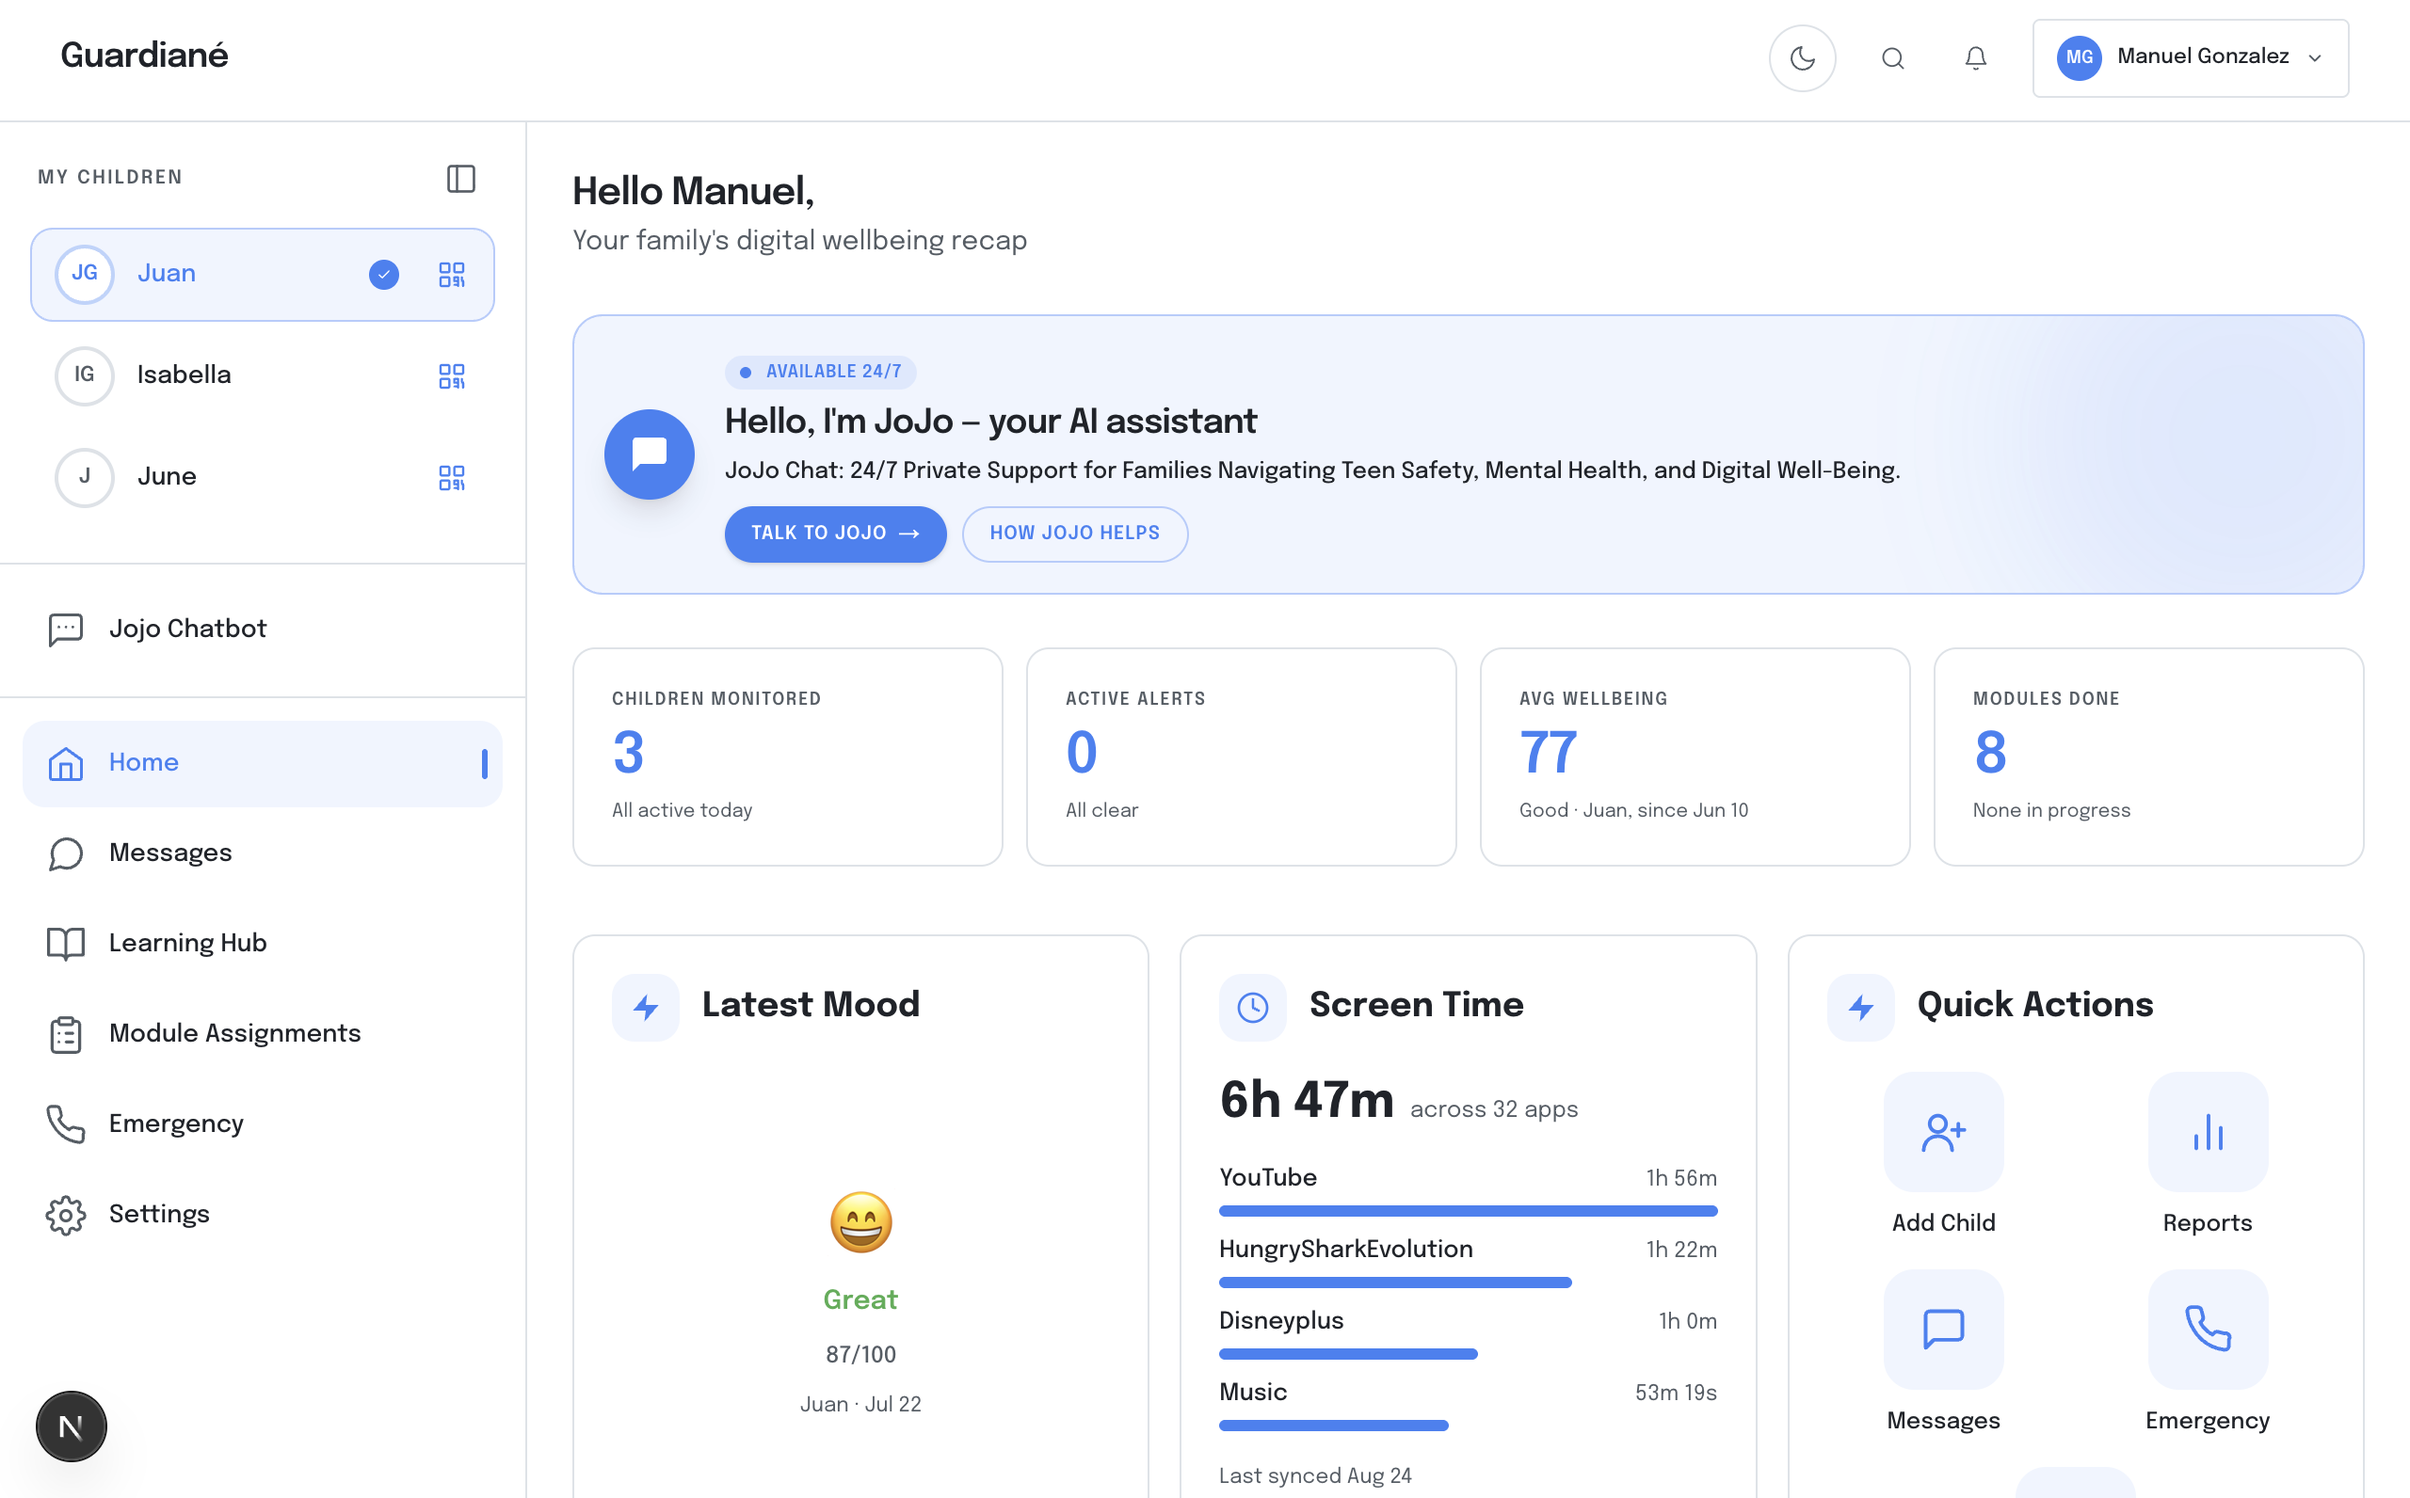
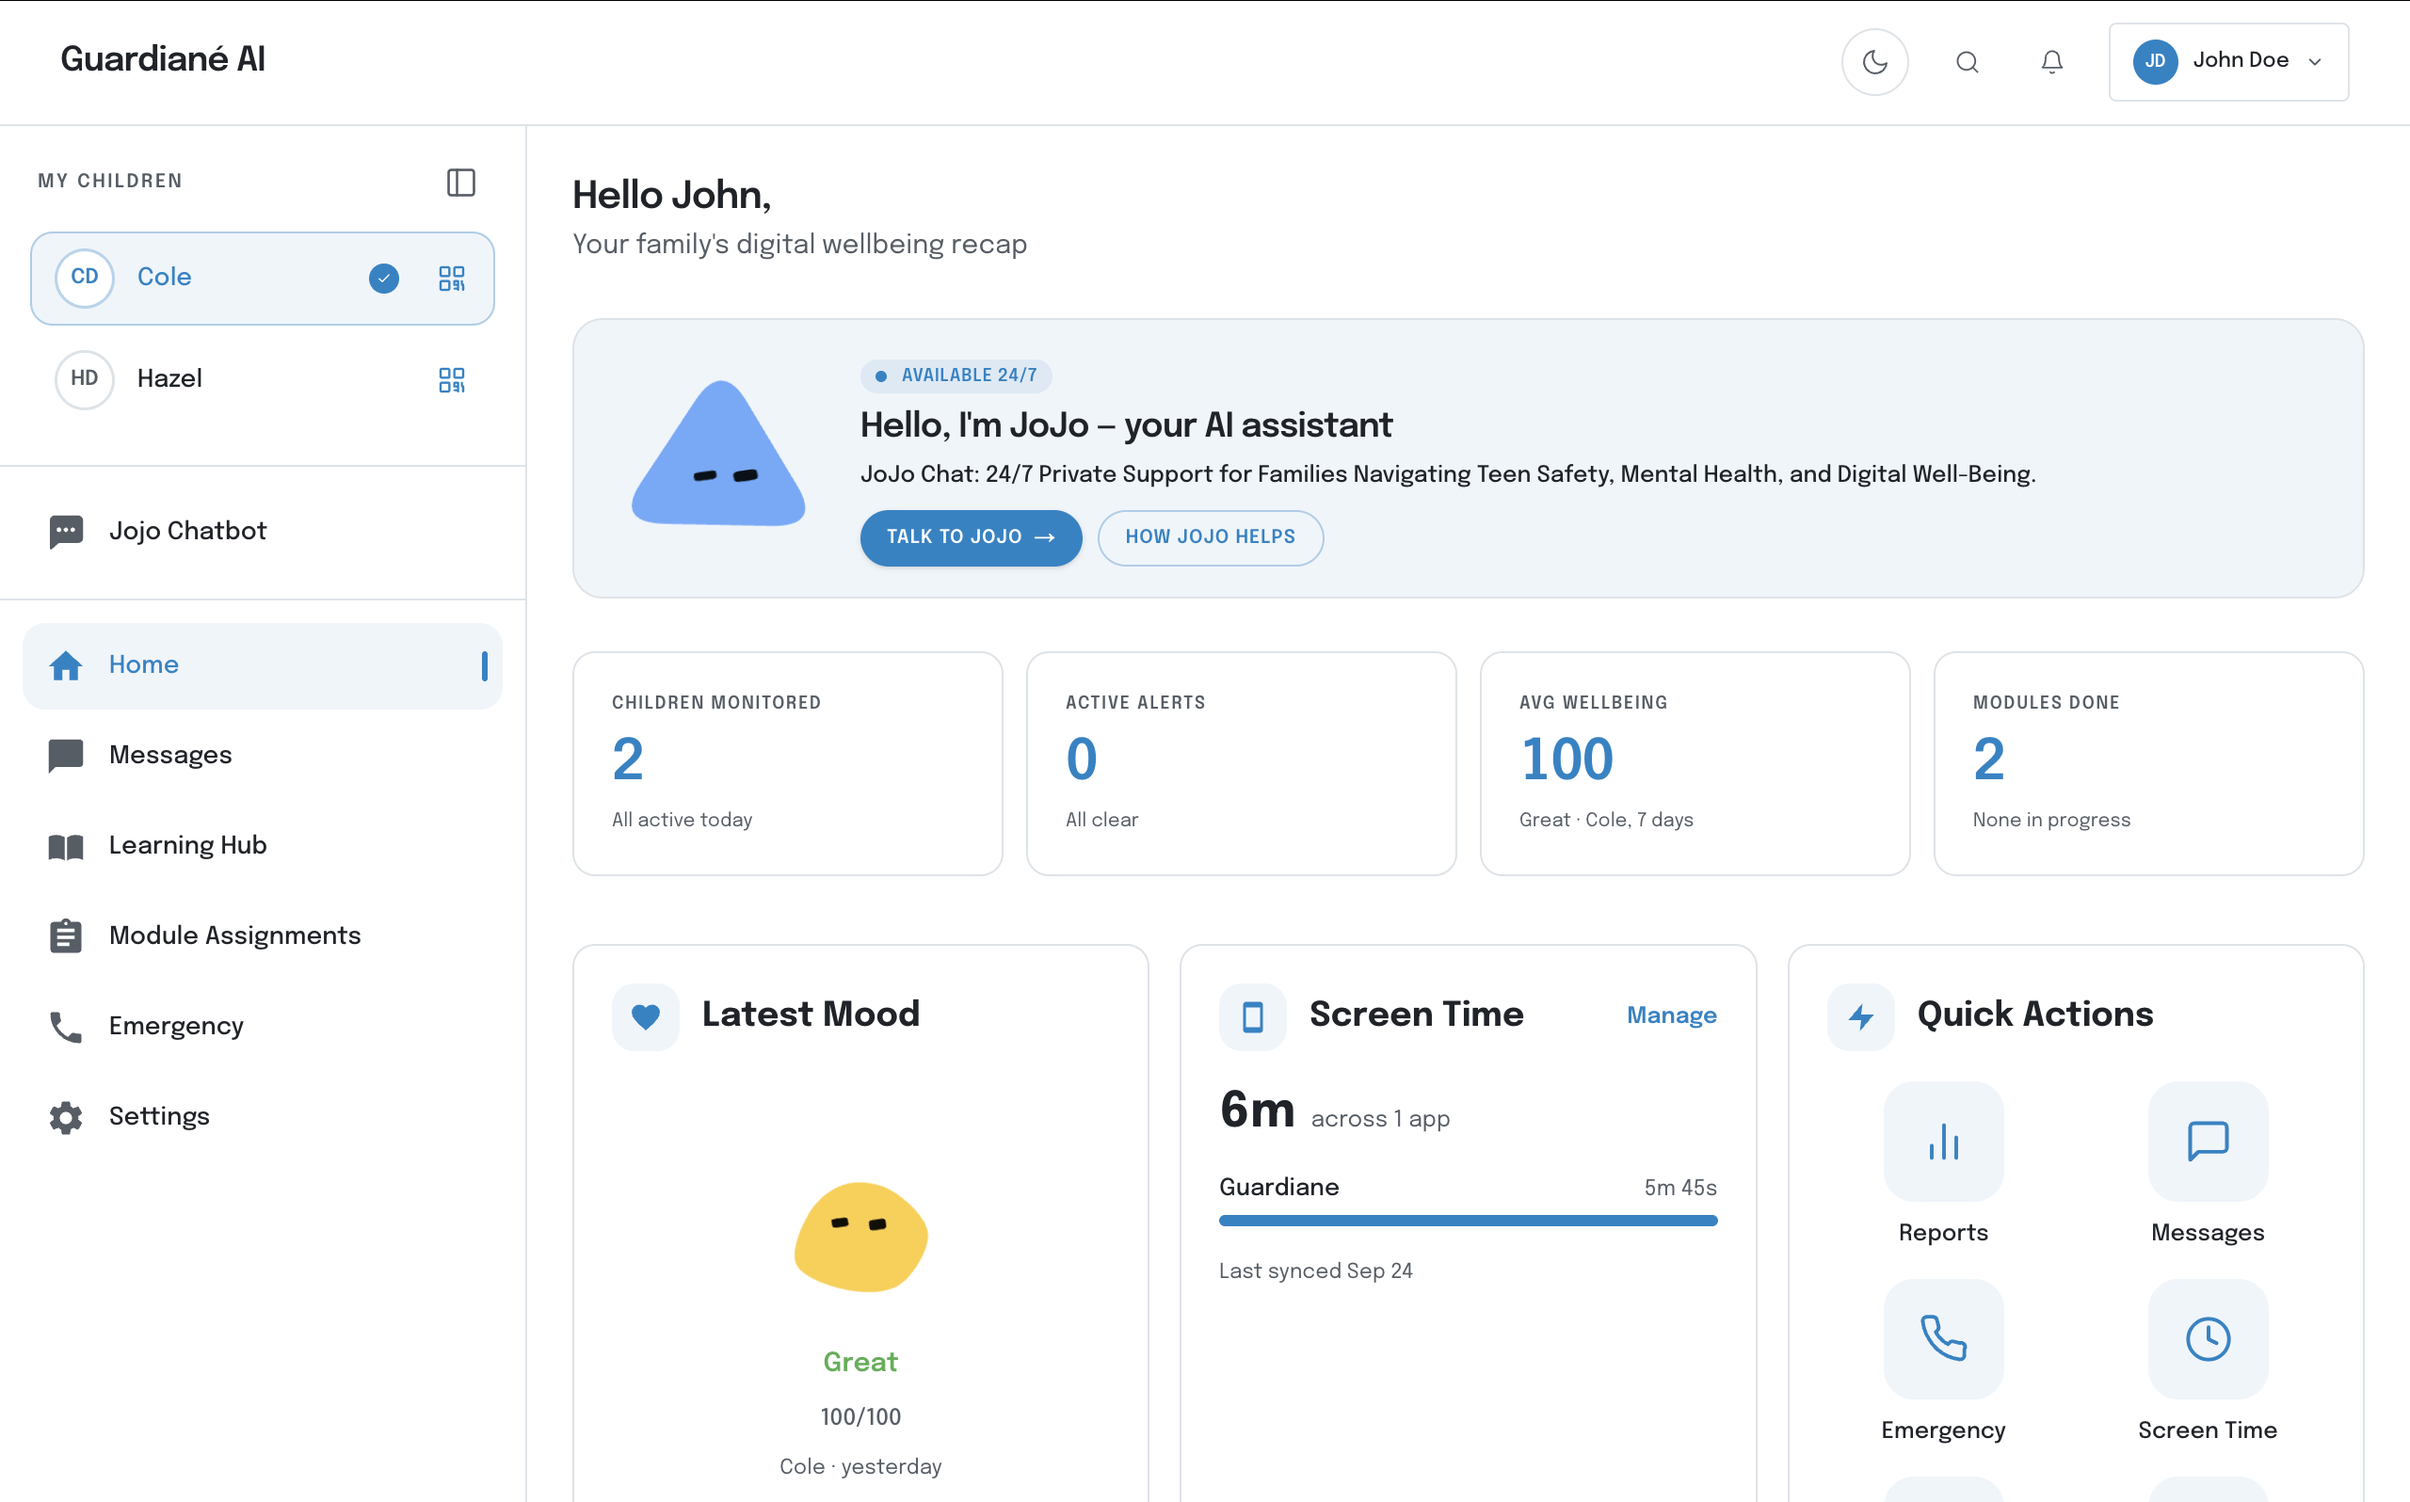
Keep Screen Time unlock codes working when Admin setup fails; gray device mockups
- firebaseAdmin: strip quotes pasted around the private key, and treat a
  failed init as unconfigured instead of throwing (was a bare 500).
- unlock-code: return a JSON error when the Firestore read/write fails.
- Marketing hero: laptop and phone frames in neutral-800, shorter laptop top bar.

diff --git a/components/guardiane-device-mockup.js b/components/guardiane-device-mockup.js
@@ -18,11 +18,11 @@ export function GuardianeDeviceMockup({ laptopSrc, phoneSrc }) {
   return (
     <div className="relative mx-auto w-full max-w-[100%]">
       {/* laptop */}
-      <div className="rounded-xl border border-[var(--border)] bg-[var(--surface)] p-3 shadow-[var(--shadow-elevated)] sm:p-4">
-        <div className="flex items-center gap-1.5 px-1.5 pb-2.5">
-          <span className="h-2.5 w-2.5 rounded-full bg-[var(--border)]" />
-          <span className="h-2.5 w-2.5 rounded-full bg-[var(--border)]" />
-          <span className="h-2.5 w-2.5 rounded-full bg-[var(--border)]" />
+      <div className="rounded-xl border border-neutral-700 bg-neutral-800 px-3 pb-3 pt-2 shadow-[var(--shadow-elevated)] sm:px-4 sm:pb-4 sm:pt-2.5">
+        <div className="flex items-center gap-1.5 px-1.5 pb-1.5">
+          <span className="h-2.5 w-2.5 rounded-full bg-neutral-600" />
+          <span className="h-2.5 w-2.5 rounded-full bg-neutral-600" />
+          <span className="h-2.5 w-2.5 rounded-full bg-neutral-600" />
         </div>
 
         <div className="relative aspect-[16/10] overflow-hidden rounded-lg bg-[var(--surface-muted)]">
@@ -40,7 +40,7 @@ export function GuardianeDeviceMockup({ laptopSrc, phoneSrc }) {
       </div>
 
       {/* phone — sits on the left, bottom-aligned with the laptop */}
-      <div className="absolute -left-12 bottom-0 z-10 w-32 rounded-[1.7rem] border border-[var(--border)] bg-[var(--surface)] p-2 shadow-[var(--shadow-elevated)] sm:-left-12 sm:w-44">
+      <div className="absolute -left-12 bottom-0 z-10 w-32 rounded-[1.7rem] border border-neutral-700 bg-neutral-800 p-2 shadow-[var(--shadow-elevated)] sm:-left-12 sm:w-44">
         <div className="relative aspect-[9/19] overflow-hidden rounded-[1.3rem] bg-[var(--surface-muted)]">
           {phoneSrc ? (
             // eslint-disable-next-line @next/next/no-img-element

diff --git a/app/api/screen-time/unlock-code/route.js b/app/api/screen-time/unlock-code/route.js
@@ -49,25 +49,33 @@ export async function POST(request) {
     );
   }
 
-  const child = await db.collection("users").doc(childId).get();
-  if (
-    !child.exists ||
-    child.get("role") !== "child" ||
-    child.get("parentId") !== uid
-  ) {
-    return Response.json({ error: "Not your child." }, { status: 403 });
-  }
-
   const code = generateCode();
   const { expiresAtMs, ...unlock } = newUnlock({ code, parentUid: uid });
-  await db
-    .collection(UNLOCKS_COLLECTION)
-    .doc(childId)
-    .set({
-      ...unlock,
-      expiresAt: Timestamp.fromMillis(expiresAtMs),
-      createdAt: Timestamp.now(),
-    });
+  try {
+    const child = await db.collection("users").doc(childId).get();
+    if (
+      !child.exists ||
+      child.get("role") !== "child" ||
+      child.get("parentId") !== uid
+    ) {
+      return Response.json({ error: "Not your child." }, { status: 403 });
+    }
+
+    await db
+      .collection(UNLOCKS_COLLECTION)
+      .doc(childId)
+      .set({
+        ...unlock,
+        expiresAt: Timestamp.fromMillis(expiresAtMs),
+        createdAt: Timestamp.now(),
+      });
+  } catch (e) {
+    console.error("[unlock-code] Firestore failed:", e?.code, e?.message);
+    return Response.json(
+      { error: "Couldn't reach the database. Try again in a moment." },
+      { status: 502 },
+    );
+  }
 
   return Response.json({
     code,

diff --git a/app/lib/firebaseAdmin.js b/app/lib/firebaseAdmin.js
@@ -17,19 +17,26 @@ import { getFirestore } from "firebase-admin/firestore";
 
 function getAdminApp() {
   const clientEmail = process.env.FIREBASE_ADMIN_CLIENT_EMAIL?.trim();
-  const privateKey = process.env.FIREBASE_ADMIN_PRIVATE_KEY?.replace(
-    /\\n/g,
-    "\n",
-  );
+  // Hosting dashboards often keep the quotes from a pasted .env line, which
+  // makes cert() throw — strip them along with escaped newlines.
+  const privateKey = process.env.FIREBASE_ADMIN_PRIVATE_KEY?.trim()
+    .replace(/^"|"$/g, "")
+    .replace(/\\n/g, "\n");
   const projectId = process.env.NEXT_PUBLIC_FIREBASE_PROJECT_ID?.trim();
   if (!clientEmail || !privateKey || !projectId) return null;
 
-  return (
-    getApps()[0] ??
-    initializeApp({
-      credential: cert({ projectId, clientEmail, privateKey }),
-    })
-  );
+  try {
+    return (
+      getApps()[0] ??
+      initializeApp({
+        credential: cert({ projectId, clientEmail, privateKey }),
+      })
+    );
+  } catch (e) {
+    // A malformed key must not 500 every caller; treat it as unconfigured.
+    console.error("[firebaseAdmin] init failed:", e?.message);
+    return null;
+  }
 }
 
 export function getAdminAuth() {
